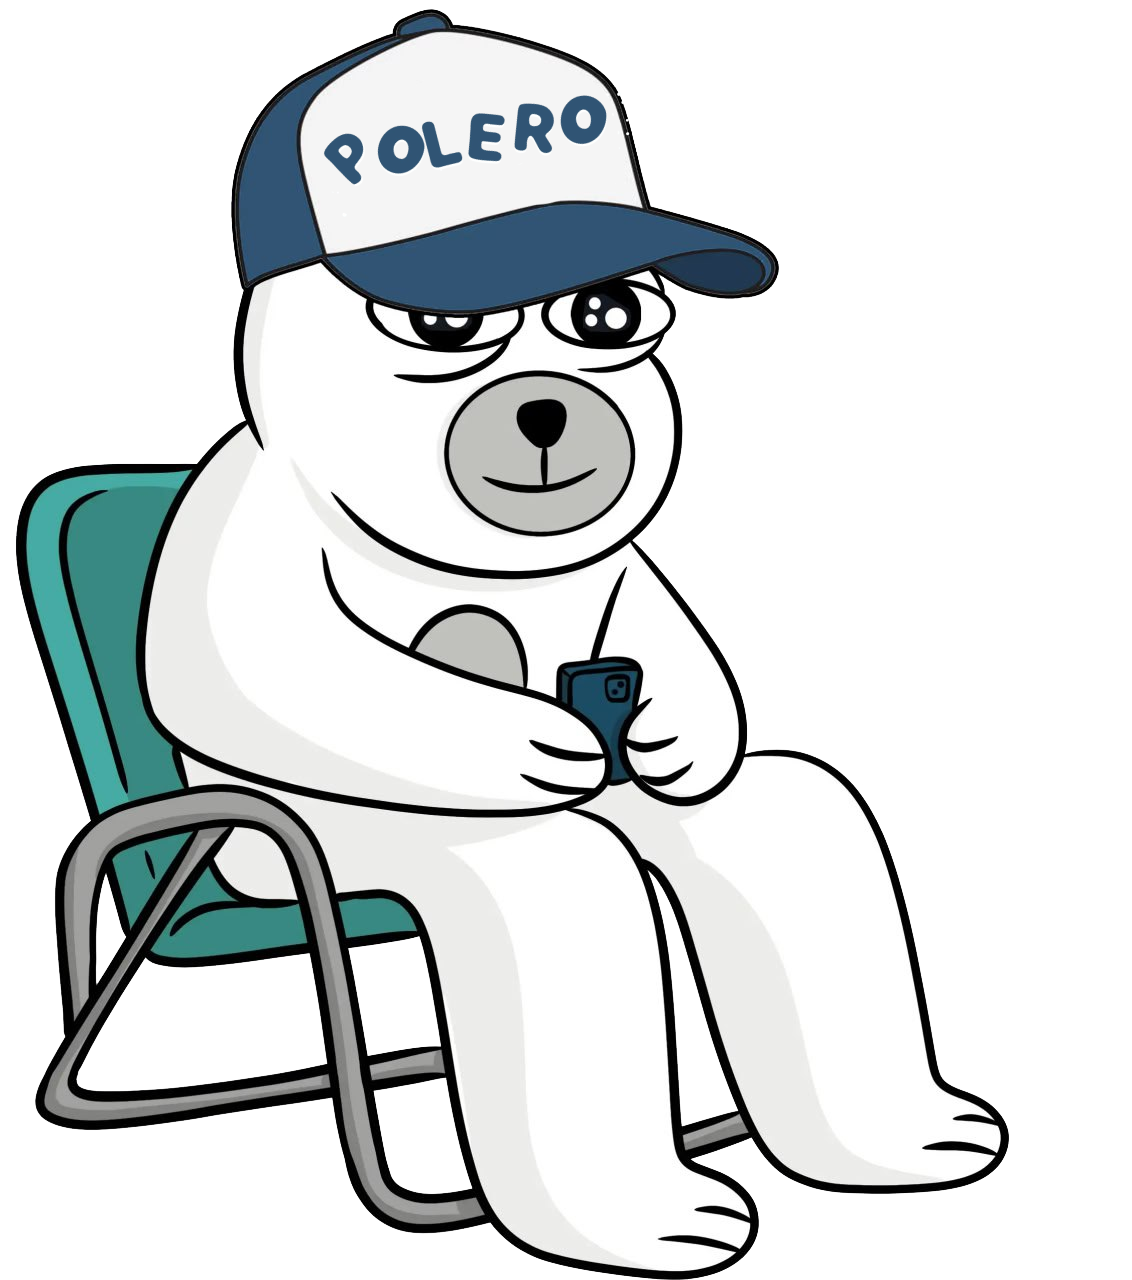
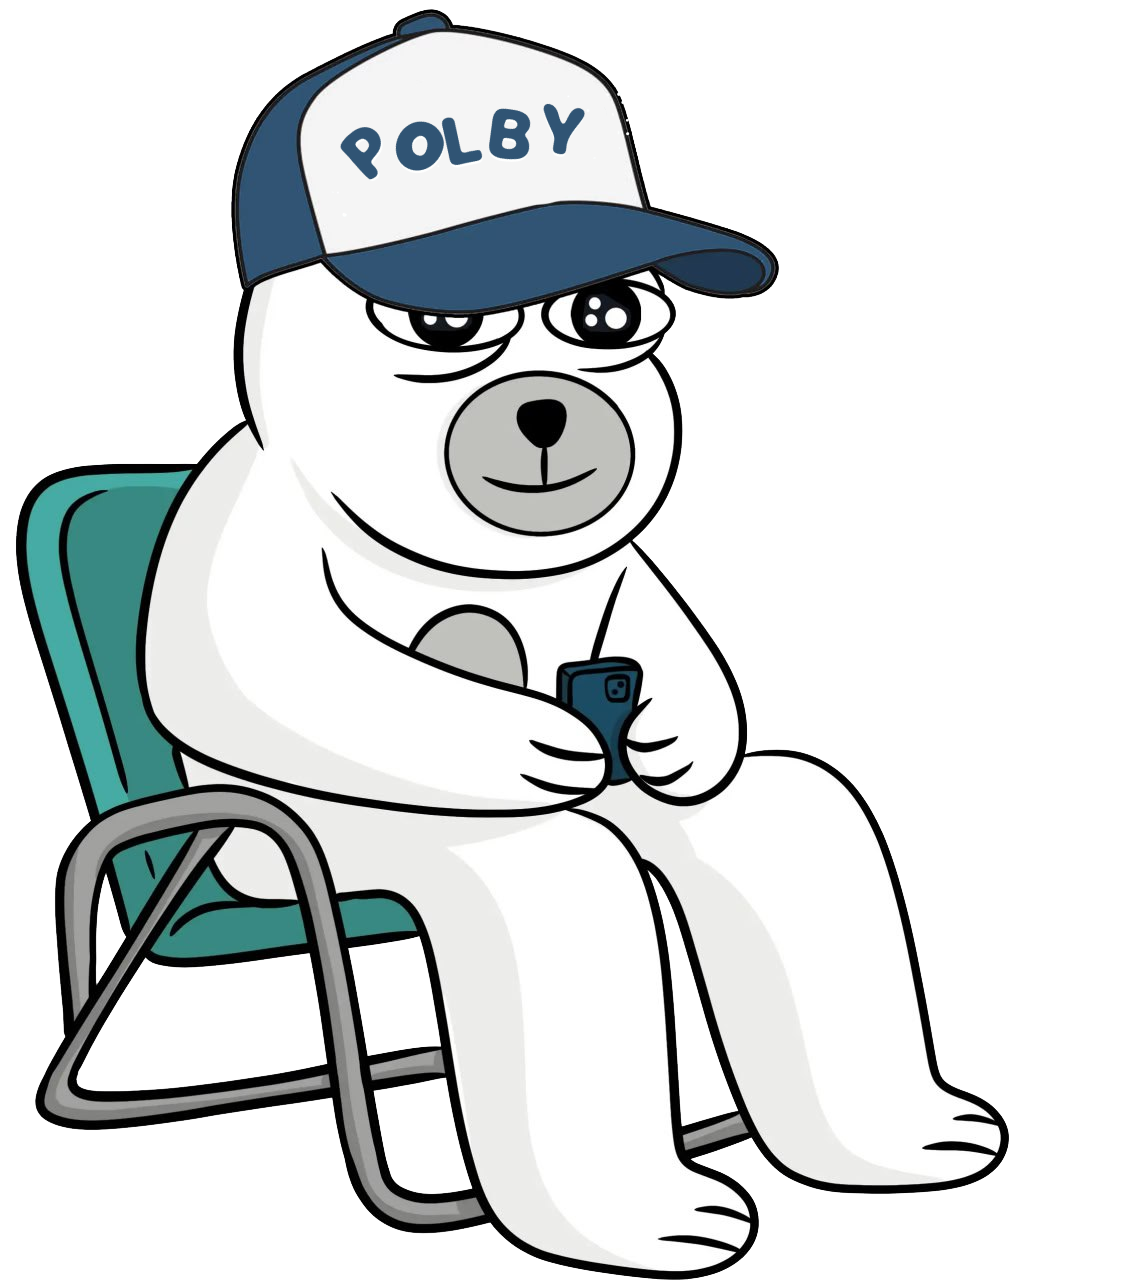
1

Changed region(s): [[0.2783, 0.0625, 0.5565, 0.1562]]

diff --git a/index.html b/index.html
@@ -16,14 +16,14 @@
 		<meta name="distribution" content="global"> 
 		<meta name="robots" content="index,follow"> 
 		<meta name="country" content="US">
-		<meta name="description" content="POLERO is the newest charismatic fluffy ruler of the frozen crypto tundra. This fun, decentralized, community-driven token is built on Solana Chain.">
+		<meta name="description" content="POLBY is the newest charismatic fluffy ruler of the frozen crypto tundra. This fun, decentralized, community-driven token is built on Solana Chain.">
 		<meta name="google-site-verification" content="">
 		
 		<!-- Open Graph Meta Tags -->
 		<meta property="og:type" content="website">
 		<meta property="og:url" content="">
-		<meta property="og:title" content="POLERO | The Official POLERO Bear on Solanachain">
-		<meta property="og:description" content="POLERO is the newest charismatic fluffy ruler of the frozen crypto tundra. This fun, decentralized, community-driven token is built on Solana Chain.">
+		<meta property="og:title" content="POLBY | The Official POLBY Bear on Solanachain">
+		<meta property="og:description" content="POLBY is the newest charismatic fluffy ruler of the frozen crypto tundra. This fun, decentralized, community-driven token is built on Solana Chain.">
 
 		
 
@@ -37,7 +37,7 @@
 		<meta name="msapplication-TileColor" content="#9c2730">
 		<meta name="theme-color" content="#ffffff">
 		
-		<title>POLERO | The Official Polar Bear on Solanachain</title>
+		<title>POLBY | The Official Polar Bear on Solanachain</title>
 		<link href="assets/css/include.css" rel="stylesheet">
 		<!-- Google tag (gtag.js) -->
 		<script async src="https://www.googletagmanager.com/gtag/js?id=G-083C66RB80"></script>
@@ -66,14 +66,14 @@
 							<span style="margin-right: 40px">P</span>
 							<span>O</span>
 							<span>L</span>
-							<span>E</span>
-							<span>R</span>
-							<span style="rotate: -10deg; margin-left:40px; margin-right: 0px;">O</span>
+							<span>B</span>
+							<span>Y</span>
+<!--							<span style="rotate: -10deg; margin-left:40px; margin-right: 0px;">O</span>-->
 <!--							<span>R</span>-->
 
 						</h1>
 						<div class="vstack mx-auto col-12 col-xl-6 milky fs-3 text-center gap-1 lh-base text-blue-4">
-							<span>Hi I'm POLERO</span>
+							<span>Hi I'm POLBY</span>
 							<span>I'm the coldest, chillest, and funniest bear</span>
 							<span>in the entire SOLArctic. Welcome to my world.</span>
 						</div>
@@ -132,8 +132,8 @@
 				<div class="container py-5 position-relative">
 					<div class="d-flex flex-column col-12 col-lg-8 justify-content-center gap-4 text-center position-relative z-1 py-0 py-md-5 text-blue-4 milky">
 						<h2 class="display-3">A New King Has Risen</h2>
-						<p class="fs-5 lh-base">Meet POLERO, the latest ruler of the icy domains of cryptocurrency, a royal polar bear who's more chilled than the arctic ice and cooler than the other side of the pillow. Born on the vast, frostbitten landscapes of the Solana Chain, this fluffy monarch has swiftly ascended to the throne, not through bloodshed or conquest, but with sheer charisma and an unshakable belief in the power of meme magic.</p>
-						<p class="fs-5 lh-base">This is not your average bear. POLERO's reign is marked by his unorthodox approach to governance; he rules with a gentle paw and a heart as big as his appetite for salmon. In a world where seriousness often overshadows fun, POLERO dares to ask, "Why not both?" He's democratizing the crypto kingdom one belly slide at a time, proving that you can indeed mix business with pleasure and that every bear can have his fish and eat it too.</p>
+						<p class="fs-5 lh-base">Meet POLBY, the latest ruler of the icy domains of cryptocurrency, a royal polar bear who's more chilled than the arctic ice and cooler than the other side of the pillow. Born on the vast, frostbitten landscapes of the Solana Chain, this fluffy monarch has swiftly ascended to the throne, not through bloodshed or conquest, but with sheer charisma and an unshakable belief in the power of meme magic.</p>
+						<p class="fs-5 lh-base">This is not your average bear. POLBY's reign is marked by his unorthodox approach to governance; he rules with a gentle paw and a heart as big as his appetite for salmon. In a world where seriousness often overshadows fun, POLBY dares to ask, "Why not both?" He's democratizing the crypto kingdom one belly slide at a time, proving that you can indeed mix business with pleasure and that every bear can have his fish and eat it too.</p>
 					</div>
 				</div>
 				<div class="baby-pola"></div>
@@ -143,17 +143,17 @@
 					<div class="d-flex flex-column-reverse flex-md-row gap-4">
 						<div class="d-flex flex-column justify-content-center gap-4 col-12 col-md-6">
 							<div class="d-flex flex-column gap-1 text-blue-4">
-								<span class="fs-4 milky lh-base">POLERO on Solanachain</span>
-								<h2 class="milky display-s lh-1 ">OFFICIAL POLERO LINKS</h2>
+								<span class="fs-4 milky lh-base">POLBY on Solanachain</span>
+								<h2 class="milky display-s lh-1 ">OFFICIAL POLBY LINKS</h2>
 							</div>
 
 							<div class="d-flex flex-column gap-2">
 								<span class="fs-6 milky fw-bolder text-blue-4">Social &amp; Onchain Data</span>
 								<div class="socials hstack gap-3">
-									<a href="https://x.com/polerosolcoin" target="_blank">
+									<a href="https://x.com/polbysolcoin" target="_blank">
 										<div class="icon twitter rounded-circle"></div>
 									</a>
-									<a href="https://t.me/polerosol" target="_blank">
+									<a href="https://t.me/polbysol" target="_blank">
 										<div class="icon telegram rounded-circle"></div>
 									</a>
 									<a href="#" target="_blank">
@@ -168,7 +168,7 @@
 								<span class="fs-6 milky fw-bolder text-blue-4">Exchanges (MORE TBA)</span>
 								<div class="row row-cols-2 row-cols-lg-3 g-3">
 									<div class="col">
-										<a href="https://pump.fun/HHJE9u5cBHBjgdGZmTLfUVs3rjmfwHBdx3vpsM3Aump" target="_blank" class="h-100 btn btn-md btn-light rounded-pill w-100 py-2 px-3">
+										<a href="https://pump.fun/12p96KQmFGWvuu2FREY172Jqk9tqjPgVdSitm2sVr777" target="_blank" class="h-100 btn btn-md btn-light rounded-pill w-100 py-2 px-3">
 											<img src="assets/logos/pumpfun.svg" class="w-75 mt-1" alt="uniswap link">
 										</a>
 									</div>
@@ -191,10 +191,10 @@
 							</div-->
 						</div>
 						<div class="col-12 col-md-4 pola-in-phone">
-							<a class="polarmy-buble polarmy-link" href="https://t.me/polerosol"><img src="assets/images/pola-phone-bubble-r.png" class="w-100 " alt="click to join polarmy"></a>
-							<a href="https://t.me/polerosol"><img src="assets/images/pola-phone-r.png" class="w-100 " alt="pola having fun on tg"></a>
-							<a class="polarmy-buble polarmy-link" href="https://t.me/polerosol"><img src="assets/images/pola-phone-bubble-l.png" class="w-100 " alt="click to join polarmy"></a>
-							<a  href="https://t.me/polerosol"><img src="assets/images/pola-phone-l.png" class="w-100 " alt="pola having fun on tg"></a>
+							<a class="polarmy-buble polarmy-link" href="https://t.me/polbysol"><img src="assets/images/pola-phone-bubble-r.png" class="w-100 " alt="click to join polarmy"></a>
+							<a href="https://t.me/polbysol"><img src="assets/images/pola-phone-r.png" class="w-100 " alt="pola having fun on tg"></a>
+							<a class="polarmy-buble polarmy-link" href="https://t.me/polbysol"><img src="assets/images/pola-phone-bubble-l.png" class="w-100 " alt="click to join polarmy"></a>
+							<a  href="https://t.me/polbysol"><img src="assets/images/pola-phone-l.png" class="w-100 " alt="pola having fun on tg"></a>
 						</div>
 					</div>
 					
@@ -220,17 +220,17 @@
 			<section id="tokenomics" class="position-relative bg-blue-4 py-5 snow-cap">
 				<div class="container py-5 position-relative">
 					<div class="vstack gap-4 text-center mb-5 col-12 col-xl-6 mx-auto text-white milky">
-						<h2 class="display-1 shouxietongzhen gradient-txt-1">POLEROnomics</h2>
-						<p class="fs-5 lh-base">Adhering to the ethos of decentralization, $POLERO adopted a strategy to ensure genuine community ownership and nurture growth with steadfast support from the community.</p>
+						<h2 class="display-1 shouxietongzhen gradient-txt-1">POLBYnomics</h2>
+						<p class="fs-5 lh-base">Adhering to the ethos of decentralization, $POLBY adopted a strategy to ensure genuine community ownership and nurture growth with steadfast support from the community.</p>
 					</div>
 
 					<div class="d-flex flex-column flex-xl-row disclaimer rounded-4 p-3 border border-4 border-blue-1 shadow gap-3 col-12 col-xl-8 mx-auto mb-4 bg-white milky text-blue-4">
-						<a href="https://pump.fun/HHJE9u5cBHBjgdGZmTLfUVs3rjmfwHBdx3vpsM3Aump"><button class="btn btn-lg btn-light px-3">
-							<span class="fw-bold fs-6 text-blue-4">Buy $POLERO</span>
+						<a href="https://pump.fun/12p96KQmFGWvuu2FREY172Jqk9tqjPgVdSitm2sVr777"><button class="btn btn-lg btn-light px-3">
+							<span class="fw-bold fs-6 text-blue-4">Buy $POLBY</span>
 						</button></a>
 						<div class="col-12 col-xl-10 hstack gap-3 justify-content-between rounded-3 border p-1 fs-6">
-							<span class="text-truncate fw-bold ms-3 contact">Contract address: HHJE9u5cBHBjgdGZmTLfUVs3rjmfwHBdx3vpsM3Aump</span>
-							<button class="btn btn-md btn-light copy" data-text="HHJE9u5cBHBjgdGZmTLfUVs3rjmfwHBdx3vpsM3Aump">
+							<span class="text-truncate fw-bold ms-3 contact">Contract address: 12p96KQmFGWvuu2FREY172Jqk9tqjPgVdSitm2sVr777</span>
+							<button class="btn btn-md btn-light copy" data-text="12p96KQmFGWvuu2FREY172Jqk9tqjPgVdSitm2sVr777">
 								<i class="bi bi-clipboard"></i>
 							</button>
 						</div>
@@ -303,7 +303,7 @@
 									<img src="assets/images/icons/base.svg" class="w-100" alt="base logo">
 								</div>
 								<h3 class="fw-bolder fs-1 milky text-uppercase lh-1">Secure Solana (BASE ETH)</h3>
-								<p class="fs-6 lh-base milky">Purchase Solanachain Ethereum (BASE), the foundational currency required for transactions on the base network where $POLERO operates. BASE ETH acts as the "gas" for transactions, including buying $POLERO.</p>
+								<p class="fs-6 lh-base milky">Purchase Solanachain Ethereum (BASE), the foundational currency required for transactions on the base network where $POLBY operates. BASE ETH acts as the "gas" for transactions, including buying $POLBY.</p>
 							</div>
 						</div>
 						<div class="col">
@@ -311,8 +311,8 @@
 								<div class="col-4 col-md-2">
 									<img src="assets/images/pola-5.webp" class="w-100" alt="buy pola">
 								</div>
-								<h3 class="fw-bolder fs-1 milky text-uppercase lh-1">Buy $POLERO</h3>
-								<p class="fs-6 lh-base milky">Use your newly acquired BASE ETH to purchase $POLERO tokens through a cryptocurrency exchange or decentralized exchange platform that lists $POLERO.</p>
+								<h3 class="fw-bolder fs-1 milky text-uppercase lh-1">Buy $POLBY</h3>
+								<p class="fs-6 lh-base milky">Use your newly acquired BASE ETH to purchase $POLBY tokens through a cryptocurrency exchange or decentralized exchange platform that lists $POLBY.</p>
 							</div>
 						</div>
 						<div class="col">
@@ -321,7 +321,7 @@
 									<img src="assets/images/icons/crypto-wallet.svg" class="w-100" alt="wallet logo">
 								</div>
 								<h3 class="fw-bolder fs-1 milky text-uppercase lh-1">Add To Your Wallet</h3>
-								<p class="fs-6 lh-base milky">Import $POLERO tokens into your MetaMask wallet by adding the pola token's contract address. This allows you to view and manage your $POLERO holdings directly within MetaMask.</p>
+								<p class="fs-6 lh-base milky">Import $POLBY tokens into your MetaMask wallet by adding the pola token's contract address. This allows you to view and manage your $POLBY holdings directly within MetaMask.</p>
 							</div>
 						</div>
 					</div>
@@ -339,8 +339,8 @@
 					
 						<img src="assets/images/VPN-Logo.svg" class="vpn-logo" alt="pola vpn logo">
 						
-						<h2 class="text-nowrap milky display-s lh-1">POLERO VPN</h2>
-						<span class="text-center fs-6 lh-base milky">POLEROVPN is the very first memecoin to have this feature. it is your gateway to a secure and unrestricted online experience, designed with your privacy in mind. Whether you're browsing, streaming, or working remotely, POLEROVPN ensures your data stays protected and your connections remain anonymous.</span>
+						<h2 class="text-nowrap milky display-s lh-1">POLBY VPN</h2>
+						<span class="text-center fs-6 lh-base milky">POLBYVPN is the very first memecoin to have this feature. it is your gateway to a secure and unrestricted online experience, designed with your privacy in mind. Whether you're browsing, streaming, or working remotely, POLBYVPN ensures your data stays protected and your connections remain anonymous.</span>
 						<div class="vpn-button-container" >
 							<button type="button" id="openISOApp" class="vpn-button border btn btn-light rounded-pill milky py-4 p-5 hstack gap-3 justify-content-center w-48">
 								<span class="fw-bolder fs-4">Android App soon</span>
@@ -397,10 +397,10 @@
 								<img src="assets/images/nfts/10.webp" alt="pola nft">
 							</div>
 						</div>
-						<h2 class="display-s lh-1 milky text-blue-4">POLERO NFT</h2>
+						<h2 class="display-s lh-1 milky text-blue-4">POLBY NFT</h2>
 						<div class="vstack gap-3 fs-6 fw-normal lh-base text-dark text-opacity-75">
-							<p>Explore POLERO NFT, an enchanting collection of 5,000 NFTs, released on Solana drawing inspiration from a cherished polar bear, these NFTs capture the essence and spirit of a unique polar bear-inspired theme.</p>
-							<p>Owning a POLERO NFT connects you to the dynamic community surrounding this theme, signifying your appreciation and embrace of the unique culture these digital assets symbolize.</p>
+							<p>Explore POLBY NFT, an enchanting collection of 5,000 NFTs, released on Solana drawing inspiration from a cherished polar bear, these NFTs capture the essence and spirit of a unique polar bear-inspired theme.</p>
+							<p>Owning a POLBY NFT connects you to the dynamic community surrounding this theme, signifying your appreciation and embrace of the unique culture these digital assets symbolize.</p>
 						</div>
 						<div>
 							<span class="fw-bold fw-bold py-2 rounded-pill">Collection Coming Soon</span>
@@ -417,14 +417,14 @@
 							<div class="d-flex flex-column gap-1 text-blue-4">
 								<span class="fs-4 milky">Ice Cream Products</span>
 								<div class="hstack">
-									<h2 id="data-title" class="text-nowrap milky display-s lh-1">POLEROPops</h2>
+									<h2 id="data-title" class="text-nowrap milky display-s lh-1">POLBYPops</h2>
 									<span class="fs-2 fw-bold lh-1">ⓒ</span>
 								</div>
-								<span id="data-description" class="fs-6 lh-base milky">POLERO Pops brings a refreshing twist to your favorite frozen treat! Our ice creams are handcrafted with natural ingredients, offering a burst of flavors that are as unique as they are delicious. From the classic creamy delights to exotic fruit-filled wonders, each POLERO Pop is designed to provide a blissful escape into a world of sweet, frosty pleasure.</span>
+								<span id="data-description" class="fs-6 lh-base milky">POLBY Pops brings a refreshing twist to your favorite frozen treat! Our ice creams are handcrafted with natural ingredients, offering a burst of flavors that are as unique as they are delicious. From the classic creamy delights to exotic fruit-filled wonders, each POLBY Pop is designed to provide a blissful escape into a world of sweet, frosty pleasure.</span>
 							</div>
 
 							<div class="d-flex flex-column gap-4">
-								<span class="fs-3 milky text-blue-4">POLEROPops Flavors</span>
+								<span class="fs-3 milky text-blue-4">POLBYPops Flavors</span>
 								<div class="row row-cols-3 row-cols-md-5 g-3 ice-creams">
 																		<div data-id="1" class="col data-source">
 										<a role="button" data-image="assets/flavors/1.webp" class="vstack h-100 rounded-4 p-3 gap-3 text-center">
@@ -493,7 +493,7 @@
 								<span class="fw-bold fs-6">Legal Disclaimer</span>
 								<i class="bi bi-arrow-down-circle-fill"></i>
 							</a>
-							<p id="legal" class="p-3 fs-7 lh-base d-none text-white">The content on the POLERO Token website is not meant to be understood as investment, financial, trading, or any form of advice, and should not be interpreted as such. POLERO Token does not suggest that any should be bought, sold, or held by you. It is important to perform your own thorough research and consult with your financial advisor prior to making any investment decisions. By acquiring POLERO Token, you acknowledge that you are not obtaining a security or investment and you agree to absolve POLERO Token of any responsibility for any losses or taxes you may face. Additionally, you accept that POLERO Token is offered "as is" without any obligation for support or services. Expectations from POLERO Token should be none. Although POLERO Token is designed for social networking and is not a registered digital currency, it is highly advised that individuals in locations where is banned by the government refrain from purchasing it, as POLERO Token cannot guarantee adherence to the legal requirements of your region. Always ensure your actions are in full compliance with local laws and regulations before making any purchases.</p>
+							<p id="legal" class="p-3 fs-7 lh-base d-none text-white">The content on the POLBY Token website is not meant to be understood as investment, financial, trading, or any form of advice, and should not be interpreted as such. POLBY Token does not suggest that any should be bought, sold, or held by you. It is important to perform your own thorough research and consult with your financial advisor prior to making any investment decisions. By acquiring POLBY Token, you acknowledge that you are not obtaining a security or investment and you agree to absolve POLBY Token of any responsibility for any losses or taxes you may face. Additionally, you accept that POLBY Token is offered "as is" without any obligation for support or services. Expectations from POLBY Token should be none. Although POLBY Token is designed for social networking and is not a registered digital currency, it is highly advised that individuals in locations where is banned by the government refrain from purchasing it, as POLBY Token cannot guarantee adherence to the legal requirements of your region. Always ensure your actions are in full compliance with local laws and regulations before making any purchases.</p>
 						</div>
 
 						<div class="vstack disclaimer rounded-4 shadow-sm">
@@ -506,11 +506,11 @@
 
 						<div class="d-flex flex-column flex-xl-row disclaimer rounded-4 p-3 shadow gap-3">
 							<button class="btn btn-lg btn-light px-3">
-								<a class="fw-bold fs-6 text-nowrap text-black" href="https://pump.fun/HHJE9u5cBHBjgdGZmTLfUVs3rjmfwHBdx3vpsM3Aump" target="_blank">Buy $POLERO</a>
+								<a class="fw-bold fs-6 text-nowrap text-black" href="https://pump.fun/12p96KQmFGWvuu2FREY172Jqk9tqjPgVdSitm2sVr777" target="_blank">Buy $POLBY</a>
 							</button>
 							<div class="col-12 col-xl-10 text-white hstack gap-3 justify-content-between rounded-3 border p-1 fs-6">
-								<span class="text-truncate fw-bold ms-3 contact">Contract address: HHJE9u5cBHBjgdGZmTLfUVs3rjmfwHBdx3vpsM3Aump</span>
-								<button class="btn btn-md btn-light copy" data-text="HHJE9u5cBHBjgdGZmTLfUVs3rjmfwHBdx3vpsM3Aump">
+								<span class="text-truncate fw-bold ms-3 contact">Contract address: 12p96KQmFGWvuu2FREY172Jqk9tqjPgVdSitm2sVr777</span>
+								<button class="btn btn-md btn-light copy" data-text="12p96KQmFGWvuu2FREY172Jqk9tqjPgVdSitm2sVr777">
 									<i class="bi bi-clipboard"></i>
 								</button>
 							</div>
@@ -520,10 +520,10 @@
 							<div class="col-12 col-md-4">
 								<div class="vstack gap-3">
 									<img src="assets/logos/pola.svg" class="col-8" alt="pola logo">
-									<small class="d-block mb-3">Collect, create, and engage with POLERO!</small>
+									<small class="d-block mb-3">Collect, create, and engage with POLBY!</small>
 									<div class="hstack gap-4">
-										<a href="https://x.com/polerosolcoin" target="_blank" class="fs-4"><i class="bi bi-twitter"></i></a>
-										<a href="https://t.me/polerosol" target="_blank" class="fs-4"><i class="bi bi-telegram"></i></a>
+										<a href="https://x.com/polbysolcoin" target="_blank" class="fs-4"><i class="bi bi-twitter"></i></a>
+										<a href="https://t.me/polbysol" target="_blank" class="fs-4"><i class="bi bi-telegram"></i></a>
 									</div>
 								</div>
 							</div>
@@ -537,13 +537,13 @@
 		<div class="menu text-nowrap rounded-pill position-fixed bottom-0 z-3 bg-white border border-4 shadow d-none d-lg-block">
 			<div class="menu-list hstack gap-1">
 								<a href="#home" class="d-none d-md-block btn rounded-pill active.">Home</a>
-								<a href="#about" class="d-none d-md-block btn rounded-pill">About POLERO</a>
+								<a href="#about" class="d-none d-md-block btn rounded-pill">About POLBY</a>
 								<a href="#links" class="d-none d-md-block btn rounded-pill">Ecosystem</a>
 								<a href="#tokenomics" class="d-none d-md-block btn rounded-pill">Tokenomics</a>
 
 								<a href="#vpn" class="d-none d-md-block btn rounded-pill">VPN</a>
 								<a href="#nft" class="d-none d-md-block btn rounded-pill">NFT</a>
-								<a href="#popsicles" class="d-none d-md-block btn rounded-pill">POLEROPops</a>
+								<a href="#popsicles" class="d-none d-md-block btn rounded-pill">POLBYPops</a>
 								<a href="#" class="d-block d-md-none hamburger-menu">
 					<div></div>
 					<div></div>
